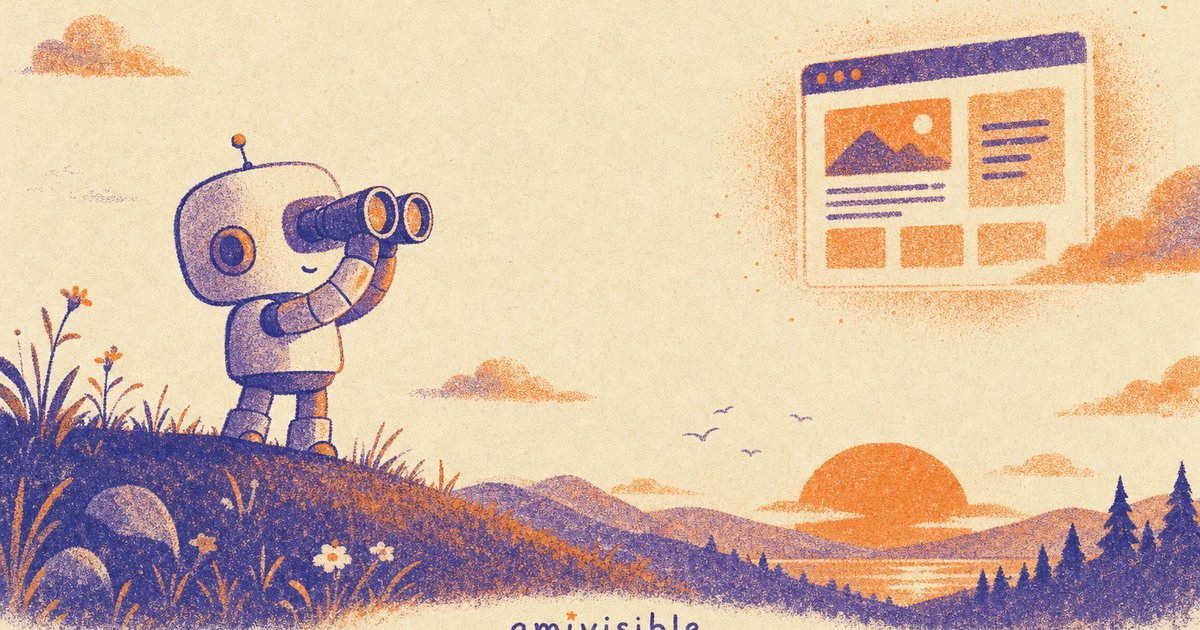
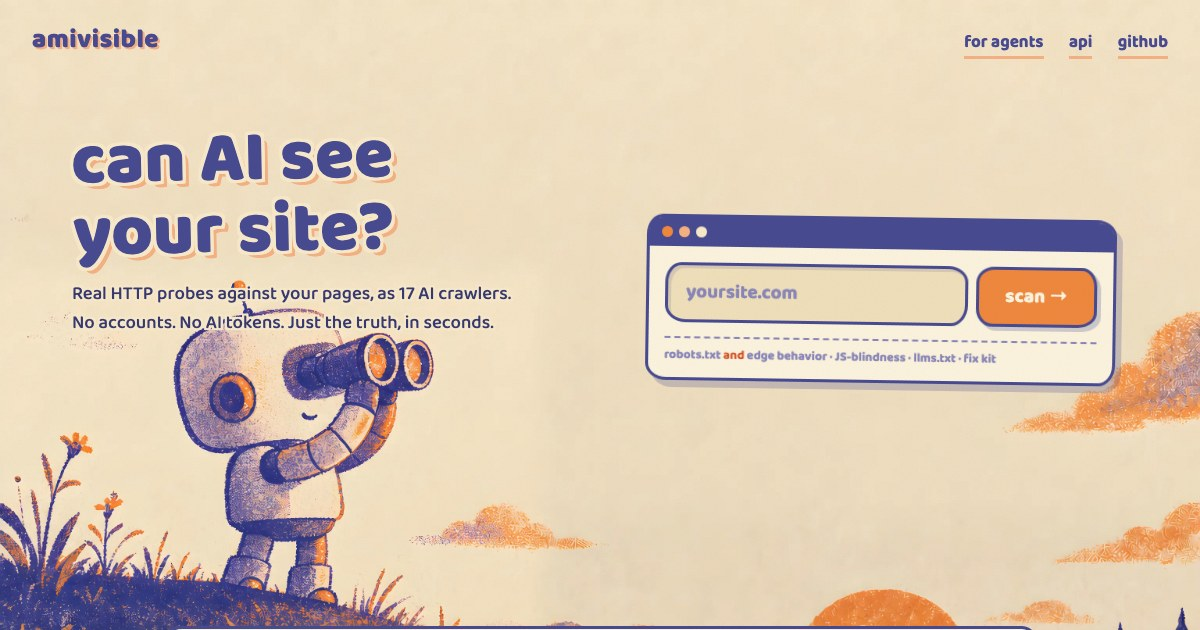
per-IP rate limiting via Durable Object bucket (20/min); paper-halo hero type; fresh og image

diff --git a/src/index.ts b/src/index.ts
@@ -4,7 +4,36 @@ import { markdownView } from "./markdown";
 import { buildFixKit } from "./fixkit";
 import { handleMcp } from "./mcp";
 
-const app = new Hono();
+type Env = { LIMITER?: DurableObjectNamespace };
+
+// one Durable Object per client IP = a consistent 20-requests-per-minute bucket,
+// enough for any human or well-behaved agent, not enough to use us as a probe cannon
+export class RateLimiter {
+  private hits: number[] = [];
+  async fetch(): Promise<Response> {
+    const now = Date.now();
+    this.hits = this.hits.filter((t) => now - t < 60_000);
+    if (this.hits.length >= 20) return new Response("1");
+    this.hits.push(now);
+    return new Response("0");
+  }
+}
+
+const app = new Hono<{ Bindings: Env }>();
+
+async function overLimit(c: { env: Env; req: { header(n: string): string | undefined } }): Promise<boolean> {
+  const ns = c.env.LIMITER;
+  if (!ns) return false;
+  const key = c.req.header("cf-connecting-ip") || "anon";
+  try {
+    const stub = ns.get(ns.idFromName(key));
+    const res = await stub.fetch("https://limiter.internal/");
+    return (await res.text()) === "1";
+  } catch {
+    return false;
+  }
+}
+const LIMIT_MSG = { error: "easy there — 20 checks a minute per visitor. take a breath in the meadow and retry shortly." };
 
 app.get("/api/health", (c) => c.json({ ok: true, service: "amivisible" }));
 
@@ -34,6 +63,7 @@ function validateTarget(raw: string): { url: URL } | { error: string } {
 }
 
 app.get("/api/check", async (c) => {
+  if (await overLimit(c)) return c.json(LIMIT_MSG, 429);
   const raw = c.req.query("url");
   if (!raw) return c.json({ error: "missing ?url=" }, 400);
   const target = validateTarget(raw);
@@ -63,6 +93,7 @@ app.get("/api/check", async (c) => {
 });
 
 app.get("/api/markdown", async (c) => {
+  if (await overLimit(c)) return c.json(LIMIT_MSG, 429);
   const raw = c.req.query("url");
   if (!raw) return c.json({ error: "missing ?url=" }, 400);
   const target = validateTarget(raw);
@@ -83,6 +114,7 @@ app.get("/api/markdown", async (c) => {
 });
 
 app.get("/api/fixkit", async (c) => {
+  if (await overLimit(c)) return c.json(LIMIT_MSG, 429);
   const raw = c.req.query("url");
   if (!raw) return c.json({ error: "missing ?url=" }, 400);
   const target = validateTarget(raw);
@@ -96,6 +128,7 @@ app.get("/api/fixkit", async (c) => {
 
 // MCP: stateless streamable HTTP, no auth (no accounts, remember?)
 app.post("/mcp", async (c) => {
+  if (await overLimit(c)) return c.json(LIMIT_MSG, 429);
   let body: unknown;
   try { body = await c.req.json(); } catch { return c.json({ jsonrpc: "2.0", id: null, error: { code: -32700, message: "parse error" } }, 400); }
   const requests = Array.isArray(body) ? body : [body];

diff --git a/public/style.css b/public/style.css
@@ -107,24 +107,31 @@ html, body { overflow-x: clip; }
   position: absolute;
   left: 6%;
   /* vw-anchored like the painting: keeps the text block above the robot's antenna (painting y~390 = 25.4vw) at every aspect ratio */
-  top: clamp(44px, 4.2vw, 88px);
+  top: clamp(36px, 3.6vw, 80px);
   max-width: 46vw;
   z-index: 3;
 }
 
 .riso-title {
-  font-size: clamp(44px, 6.2vw, 80px);
+  font-size: clamp(38px, 5.9vw, 80px);
   font-weight: 800;
   line-height: 1.02;
   margin: 0 0 12px;
   color: var(--violet);
-  text-shadow: 4px 4px 0 var(--orange-soft);
+  /* paper halo lets painted details (antenna, clouds) tuck behind the type */
+  text-shadow:
+    -3px -3px 0 var(--paper), 3px -3px 0 var(--paper), -3px 3px 0 var(--paper), 3px 3px 0 var(--paper),
+    0 -3px 0 var(--paper), 0 3px 0 var(--paper), -3px 0 0 var(--paper), 3px 0 0 var(--paper),
+    6px 6px 0 var(--orange-soft);
   transform: rotate(-1.2deg);
 }
 
 .tagline {
-  font-size: clamp(15px, 1.6vw, 19px);
+  font-size: clamp(14px, 1.55vw, 19px);
   font-weight: 500;
+  text-shadow:
+    -2px -2px 0 var(--paper), 2px -2px 0 var(--paper), -2px 2px 0 var(--paper), 2px 2px 0 var(--paper),
+    0 -2px 0 var(--paper), 0 2px 0 var(--paper), -2px 0 0 var(--paper), 2px 0 0 var(--paper);
   margin: 0;
   color: var(--violet-deep);
 }
